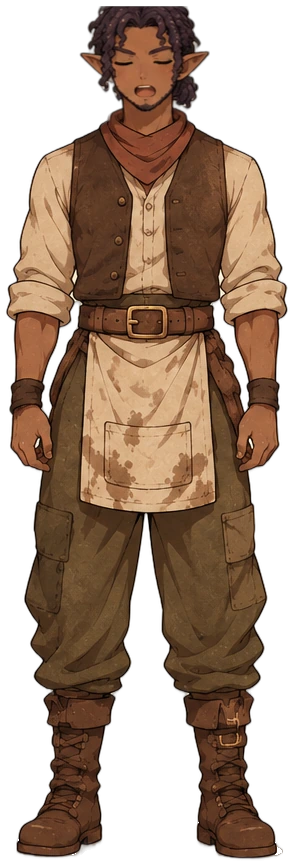
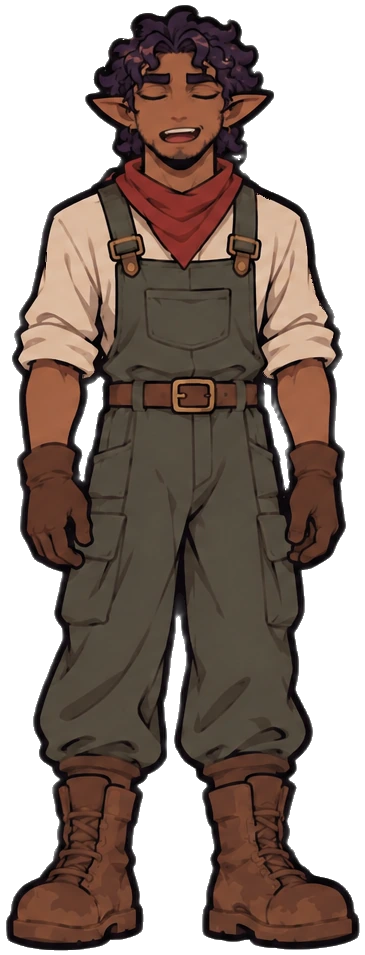
Haru no estilo novo: rosto trocado, 4 sentimentos, piscar só os olhos (versao 2)
Claude-Session: https://claude.ai/code/session_01UAy89vbUTZugM6nZ8sJaNe

diff --git a/ferramentas/ficha_expressoes/r5b.py b/ferramentas/ficha_expressoes/r5b.py
@@ -1,0 +1,30 @@
+import numpy as np, cv2
+from PIL import Image
+corpo=np.asarray(Image.open('corpo.png')).astype(np.float32); H,W=corpo.shape[:2]
+res=np.load('alinha.npy',allow_pickle=True).item()
+mask=np.asarray(Image.open('mascara.png')).astype(np.float32)/255
+def flat(a): al=a[...,3:4]/255; return (a[...,:3]*al+255*(1-al)).mean(2).astype(np.float32)
+def coloca(h,s,loc,dx=0,dy=0):
+    hs=cv2.resize(h,None,fx=s,fy=s,interpolation=cv2.INTER_AREA)
+    M=np.float32([[1,0,loc[0]+dx],[0,1,loc[1]+dy]])
+    return cv2.warpAffine(hs,M,(W,H),flags=cv2.INTER_LINEAR,borderValue=(0,0,0,0))
+def acha(lay_ref,lay,box,R=10):
+    y0,y1,x0,x1=box; T=flat(lay_ref)[y0:y1,x0:x1]; S=flat(lay)[y0-R:y1+R,x0-R:x1+R]
+    m=cv2.matchTemplate(S,T,cv2.TM_CCOEFF_NORMED); _,v,_,(x,y)=cv2.minMaxLoc(m); return R-x,R-y,v
+NARIZ=(102,128,165,205); BAIXO=(106,152,158,218)
+REF=None
+for r in range(5):
+    s=float(np.median([res[(r,c)][1] for c in range(3)]))
+    lays={}
+    for c in range(3):
+        h=np.asarray(Image.open(f'h_{r}_{c}.png')).astype(np.float32)
+        lay=coloca(h,s,res[(r,c)][2])
+        if r==0 and c==0: REF=lay; dx=dy=0; v=1
+        elif c==0: dx,dy,v=acha(REF,lay,NARIZ)
+        elif c==1: dx,dy,v=acha(lays[0],lay,NARIZ)
+        else: dx,dy,v=acha(lays[0],lay,BAIXO)
+        lay=coloca(h,s,res[(r,c)][2],dx,dy); lays[c]=lay
+        mm=mask[...,None]*(lay[...,3:4]/255)
+        comp=corpo.copy(); comp[...,:3]=corpo[...,:3]*(1-mm)+lay[...,:3]*mm
+        Image.fromarray(np.clip(comp,0,255).astype(np.uint8)).save(f'c_{r}_{c}.png')
+        print(r,c,'ajuste',dx,dy,'conf',round(v,2))

diff --git a/ferramentas/ficha_expressoes/piscar.py b/ferramentas/ficha_expressoes/piscar.py
@@ -1,0 +1,21 @@
+import numpy as np, cv2
+from PIL import Image, ImageDraw
+L=lambda f: np.asarray(Image.open(f)).astype(np.float32)
+H,W=L('c_0_0.png').shape[:2]
+yy,xx=np.mgrid[0:H,0:W]
+def olhos(ry,cy=97,rx=14):
+    m=np.zeros((H,W),np.float32)
+    for cx in (161,210): m=np.maximum(m,(((xx-cx)/rx)**2+((yy-cy)/ry)**2<=1).astype(np.float32))
+    return cv2.GaussianBlur(m,(0,0),1.4)[...,None]
+ry={0:9,1:9,2:9,3:9,4:12}
+fechado={r:L('c_0_2.png') for r in range(5)}; fechado[1]=L('c_1_2.png')
+for r in range(5):
+    m=olhos(ry[r],97,15 if r==4 else 14)
+    for c,nome in ((0,'pisca'),(1,'fala_pisca')):
+        a=L(f'c_{r}_{c}.png'); out=a.copy(); out[...,:3]=a[...,:3]*(1-m)+fechado[r][...,:3]*m
+        Image.fromarray(np.clip(out,0,255).astype(np.uint8)).save(f'p_{r}_{nome}.png')
+s=Image.new('RGB',(300*5,300*3))
+for r in range(5):
+  for k,n in enumerate(('c_%d_0','p_%d_pisca','p_%d_fala_pisca')):
+    s.paste(Image.open((n%r)+'.png').convert('RGB').crop((130,60,240,170)).resize((300,300)),(r*300,k*300))
+s.save('ver_pisca.png')

diff --git a/ferramentas/ficha_expressoes/r2.py b/ferramentas/ficha_expressoes/r2.py
@@ -1,0 +1,23 @@
+import numpy as np
+from PIL import Image
+from scipy import ndimage
+a=np.asarray(Image.open('sem_fundo.png')).copy()
+al=a[...,3]>40
+cols=[(518,735),(818,1036),(1118,1339)]
+heads={}
+for c,(x0,x1) in enumerate(cols):
+    prof=al[:,x0:x1].sum(1)
+    cuts=[0]
+    for exp in (194,388,582,778):
+        lo,hi=exp-25,exp+25; cuts.append(lo+int(np.argmin(prof[lo:hi])))
+    cuts.append(1024)
+    print(c,cuts,[int(prof[k]) for k in cuts[1:-1]])
+    for r in range(5):
+        sub=a[cuts[r]:cuts[r+1],x0-6:x1+6].copy()
+        lab,n=ndimage.label(sub[...,3]>20); tam=ndimage.sum(np.ones_like(lab),lab,range(1,n+1)); big=np.argmax(tam)+1
+        sub[...,3][~ndimage.binary_dilation(lab==big,iterations=2)]=0
+        Image.fromarray(sub).save(f'h_{r}_{c}.png')
+body=a[:, 25:405].copy()
+lab,n=ndimage.label(body[...,3]>20); tam=ndimage.sum(np.ones_like(lab),lab,range(1,n+1)); big=np.argmax(tam)+1
+body[...,3][~ndimage.binary_dilation(lab==big,iterations=2)]=0
+Image.fromarray(body).save('corpo.png')

diff --git a/ferramentas/ficha_expressoes/r4.py b/ferramentas/ficha_expressoes/r4.py
@@ -1,0 +1,17 @@
+import numpy as np, cv2, sys
+from PIL import Image
+from scipy import ndimage
+corpo=np.asarray(Image.open('corpo.png')).astype(np.float32); H,W=corpo.shape[:2]
+cy,cx=100,185
+skin=corpo[cy,cx,:3]; print('pele',skin)
+d=np.abs(corpo[...,:3]-skin).sum(2)
+cand=(d<60)&(corpo[...,3]>200); cand[175:]=False
+lab,_=ndimage.label(cand); face=lab==lab[cy,cx]
+face=ndimage.binary_fill_holes(face)
+ys,xs=np.where(face); print('rosto px',face.sum(),xs.min(),xs.max(),ys.min(),ys.max())
+mask=ndimage.binary_dilation(face,iterations=3).astype(np.float32)
+mask=cv2.GaussianBlur(mask,(0,0),1.2)
+Image.fromarray((mask*255).astype(np.uint8)).save('mascara.png')
+b=Image.new('RGBA',(W,H),(255,0,255,255)); c=Image.open('corpo.png').copy(); b.alpha_composite(c)
+v=np.array(b.convert('RGB')); v[mask>0.5]=(v[mask>0.5]*0.5+np.array([0,255,0])*0.5)
+Image.fromarray(v.astype(np.uint8)).crop((80,0,300,220)).resize((440,440),Image.NEAREST).save('ver_mascara.png')

diff --git a/ferramentas/ficha_expressoes/r3.py b/ferramentas/ficha_expressoes/r3.py
@@ -1,0 +1,19 @@
+import numpy as np, cv2
+from PIL import Image
+corpo=np.asarray(Image.open('corpo.png')).astype(np.float32)
+def flat(a):  # cinza sobre fundo branco
+    al=a[...,3:4]/255; return (a[...,:3]*al+255*(1-al)).mean(2).astype(np.float32)
+area=flat(corpo[0:320])
+res={}
+for r in range(5):
+  for c in range(3):
+    h=np.asarray(Image.open(f'h_{r}_{c}.png')).astype(np.float32)
+    best=(-1,)
+    for s in np.arange(0.72,1.10,0.01):
+        hs=cv2.resize(h,None,fx=s,fy=s,interpolation=cv2.INTER_AREA)
+        t=flat(hs)
+        if t.shape[0]>area.shape[0] or t.shape[1]>area.shape[1]: continue
+        m=cv2.matchTemplate(area,t,cv2.TM_CCOEFF_NORMED); _,v,_,loc=cv2.minMaxLoc(m)
+        if v>best[0]: best=(v,round(float(s),2),loc)
+    res[(r,c)]=best; print(r,c,best)
+np.save('alinha.npy',res,allow_pickle=True)

diff --git a/ferramentas/ficha_expressoes/r1.py b/ferramentas/ficha_expressoes/r1.py
@@ -1,0 +1,13 @@
+import os, numpy as np
+os.environ['U2NET_HOME']='/home/claude/modelos'
+from PIL import Image
+from rembg import new_session, remove
+from scipy import ndimage
+im=Image.open('/mnt/user-data/uploads/0b7c5bce-image.png').convert('RGB'); print(im.size)
+sess=new_session('isnet-anime')
+out=np.asarray(remove(im,session=sess)); Image.fromarray(out).save('sem_fundo.png')
+al=out[...,3]>40
+lab,n=ndimage.label(al); tam=ndimage.sum(np.ones_like(lab),lab,range(1,n+1))
+objs=ndimage.find_objects(lab)
+for i,(sl,t) in enumerate(zip(objs,tam)):
+    if t>3000: print(i+1,int(t),sl[1].start,sl[1].stop,sl[0].start,sl[0].stop)

diff --git a/CLAUDE.md b/CLAUDE.md
@@ -128,6 +128,6 @@ Cada ator da aba Atriz (`palco-animacao.html`) pode ter sentimentos: a personage
 - Palco: o texto é dividido em frases; `[surpresa]` ou `(surpresa)` no começo vale até o fim da frase, depois volta ao normal; `Tamaki: …` no começo da linha faz só esse ator falar (`FALA.quem`). Sem tag, o sentimento sai das palavras (se `emoAuto`). Botões de sentimento no painel Animação do ator.
 - Novel: `personagem tamaki "Tamaki" #cor ator Tamaki` liga ao ator (pisca e mexe a boca enquanto a fala aparece ou a voz toca); `tamaki [surpresa] "fala"` ou `tamaki (surpresa) "fala"` vale só nessa fala e volta ao do `mostra`. Sem ator, `[surpresa]` usa a arte `tamaki surpresa`.
 - Sentimentos prontos no repositório: `atores/indice.json` = `[{nome, pasta, nota, arquivos}]`, imagens em `atores/<ator>/` (WebP, mesma tela das poses originais, nomes `Tamaki_<sentimento>[_fala|_fala2|_pisca|_fala_pisca].webp`). Atriz › 😮 Sentimentos › 📥 Sentimentos prontos pergunta qual pronto (o do ator aberto vem marcado), troca para o ator com esse nome ou cria o ator se ele não existe, e instala. Arquivos sem sentimento no nome (`Kaoro.webp`, `Kaoro_fala.webp`…) vão para as poses normais (aba Imagens). Além disso, a Central (`atoresProntos()` no index.html) cria sozinha, ao abrir, todo ator do índice que ainda não existe no aparelho (uma vez só por nome: `central-atores-prontos`; apagou, não volta) e recarrega o Palco Animação. Atores prontos do Capítulo 1 (2026-11-20, folhas geradas no GPT pelo Tama): Tora, Goro, Reika, Yoru, Kiyoshi, Midori, Gen, Yuzu, Tetsuo, Banji, Hiyori, Shun, Kenichi, Momo, Kaname, Kaede, Haru e "Tamaki criança" (arquivos `Tamaki*.webp` em `atores/tamaki-crianca/`), só poses normais, WebP q92; o campo `tamanho` do índice vira o `size` do ator (crianças menores). Kaoro: só as 5 poses normais (fundo tirado com isnet-anime; todas usam o corpo da Parada e só a cabeça muda, alinhada pelo rosto, para não tremer na troca). Tamaki: feliz, animada, surpresa, convencida, emburrada, pensativa (feitas de 6 desenhos do Tama; olhos fechados = traço do olho fechado da feliz; bocas trocadas entre os desenhos dela).
-- Atores no estilo novo (bíblia de personagens, doc claude.ai/artifact/UmTf5SAu5teoMsUEmK7AdF): o Tama gera no GPT uma "ficha de expressões" = corpo inteiro com ROSTO LISO à esquerda e, à direita, grade 5 linhas × 3 colunas só de cabeças (linhas: normal, feliz, bravo, triste, surpreso; colunas: boca fechada, falando, olhos fechados). O Claude recorta (isnet-anime), acha escala/posição de cada cabeça no corpo (matchTemplate), alinha pelo nariz e cola só a pele do rosto (máscara do rosto liso do corpo), assim o cabelo e o corpo são sempre os mesmos. Vira poses normais + sentimentos (`_fala2` e `_fala_pisca` = cópia do `_fala`; sem `_pisca` quando a coluna 3 veio de olho aberto). Kaoro já está assim (versao 4). Limpeza da borda (rebarbas brancas do fundo): `ferramentas/limpa_borda.py` (tira pedacinhos soltos, manchinhas claras dentro do contorno perto da borda, halo branco e pixels claros semitransparentes). Só serve para o estilo novo (contorno preto grosso); nos atores antigos de traço fino ele come cabelo branco e penas brancas, então neles a limpeza fica para quando forem refeitos no estilo novo. Piscar: só os olhos trocam — elipses nos olhos (centros x 188 e 246, y 142 no recorte do corpo) recebem os olhos fechados da linha normal (a feliz usa os dela), em `_pisca` e `_fala_pisca` de todos os sentimentos; assim a boca e as sobrancelhas não mudam quando ele pisca.
+- Atores no estilo novo (bíblia de personagens, doc claude.ai/artifact/UmTf5SAu5teoMsUEmK7AdF): o Tama gera no GPT uma "ficha de expressões" = corpo inteiro com ROSTO LISO à esquerda e, à direita, grade 5 linhas × 3 colunas só de cabeças (linhas: normal, feliz, bravo, triste, surpreso; colunas: boca fechada, falando, olhos fechados). O Claude recorta (isnet-anime), acha escala/posição de cada cabeça no corpo (matchTemplate), alinha pelo nariz e cola só a pele do rosto (máscara do rosto liso do corpo), assim o cabelo e o corpo são sempre os mesmos. Vira poses normais + sentimentos (`_fala2` e `_fala_pisca` = cópia do `_fala`; sem `_pisca` quando a coluna 3 veio de olho aberto). Kaoro (versao 4) e Haru (versao 2) já estão assim. Scripts de referência em `ferramentas/ficha_expressoes/` (r1 fundo, r2 corta cabeças e corpo, r3 escala/posição, r4 máscara do rosto, r5b alinha pelo nariz/boca, piscar; as coordenadas mudam por personagem). Ficha de expressões só com texto (o GPT do Tama tem limite de imagens): o prompt precisa descrever o rosto do jeito da ficha aprovada (cabelo, formato do rosto, olhos, barba), não só a bíblia. Limpeza da borda (rebarbas brancas do fundo): `ferramentas/limpa_borda.py` (tira pedacinhos soltos, manchinhas claras dentro do contorno perto da borda, halo branco e pixels claros semitransparentes). Só serve para o estilo novo (contorno preto grosso); nos atores antigos de traço fino ele come cabelo branco e penas brancas, então neles a limpeza fica para quando forem refeitos no estilo novo. Piscar: só os olhos trocam — elipses nos olhos (centros x 188 e 246, y 142 no recorte do corpo) recebem os olhos fechados da linha normal (a feliz usa os dela), em `_pisca` e `_fala_pisca` de todos os sentimentos; assim a boca e as sobrancelhas não mudam quando ele pisca.
 - Atualizar um ator que já existe no aparelho: suba `versao` no item do índice. `atoresProntos()` guarda as versões em `central-atores-versao`; versão maior apaga as poses normais e as dos sentimentos do pacote e grava as novas no mesmo ator (mantém sentimentos que ele já tinha). `palavras` no item do índice = palavras de cada sentimento; `tamanho` só entra se o ator ainda não tem size.
 - Novel › 🎭 Atores (no menu e na barra do Roteiro): lista cada `personagem` com a foto, se está ligado (✅ / ⚠ ator não existe / sem ator), os sentimentos prontos e os que o roteiro pede sem pose (!). A lista de atores reescreve a linha `personagem … ator X`; os atores soltos têm ＋ Criar personagem.
